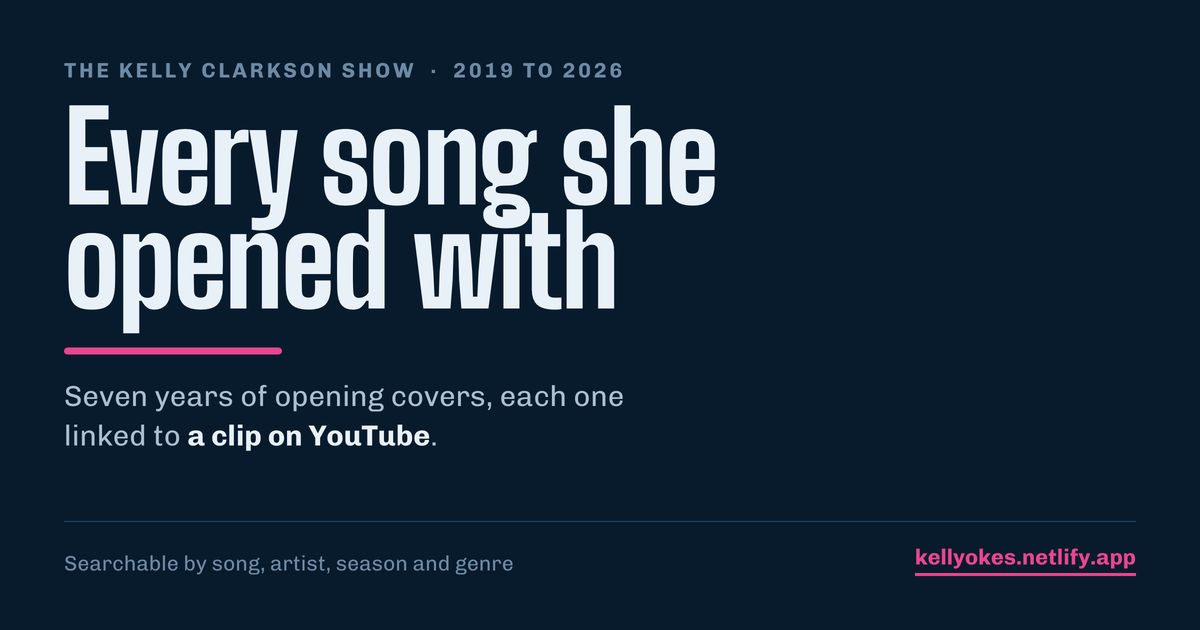
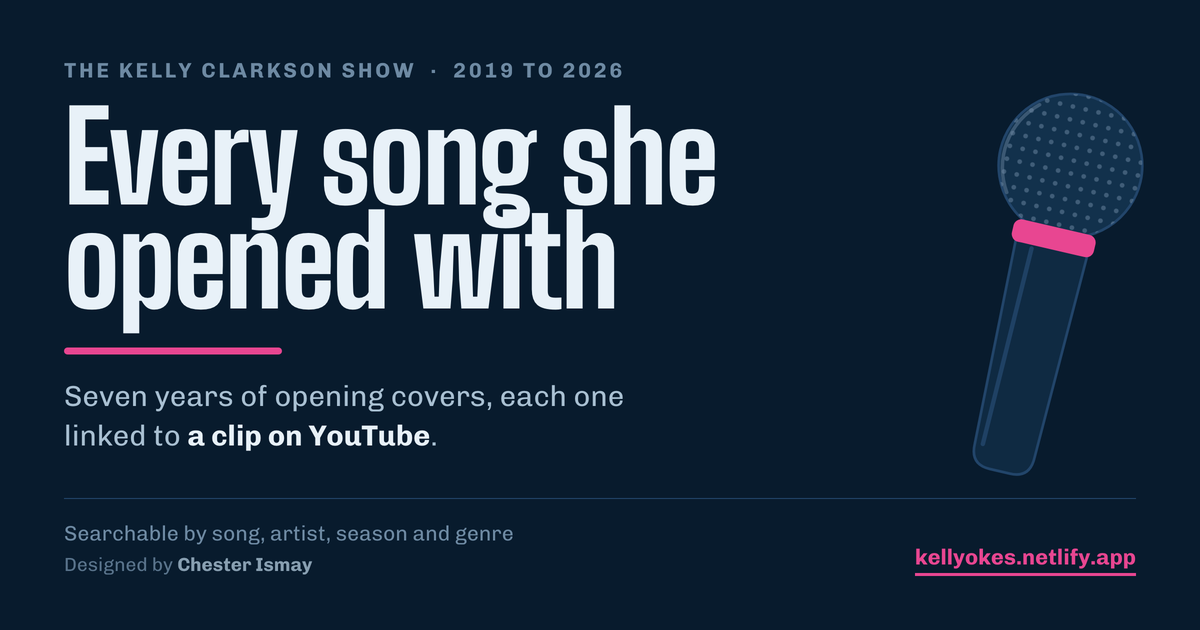
Put a microphone in the card's open right side, and a byline in the footer
The right third was dead space at share size. The mic is drawn as inline SVG in the same near-ground tones as the background so it reads as depth behind the type rather than as clip art, with the pink band as its one accent. This is a deliberate exception to the rule that the sung/unsung fill is the only ornament.

First position put the handle across the footer rule; it now sits clear of it.

Claude-Session: https://claude.ai/code/session_01GzwQPxunaZog6hKUnUkb4P

Changed region(s): [[0.8017, 0.1508, 0.9558, 0.754], [0.0308, 0.8143, 0.4317, 0.9048]]

diff --git a/tools/build_og.py b/tools/build_og.py
@@ -56,7 +56,16 @@ def html():
     padding: 58px 64px 54px; display: flex; flex-direction: column;
     justify-content: space-between; overflow: hidden;
     -webkit-font-smoothing: antialiased;
+    position: relative;
   }}
+  /* The type carries the card; the mic fills the right third and sits behind it,
+     drawn in the same near-ground tones so it reads as depth rather than
+     clip art. The one pink band ties it to the rest of the system. */
+  .mic {{
+    position: absolute; right: 74px; bottom: 122px; height: 438px; width: auto;
+    transform: rotate(13deg); transform-origin: 50% 62%;
+  }}
+  body > div, body > footer {{ position: relative; z-index: 1; }}
   .eyebrow {{
     font-size: 21px; font-weight: 700; letter-spacing: .13em;
     text-transform: uppercase; color: {t['unsung']};
@@ -80,11 +89,40 @@ def html():
     border-top: 1px solid {t['rule']}; padding-top: 22px; gap: 30px;
   }}
   .who {{ font-size: 21px; color: {t['unsung']}; }}
+  .by {{ font-size: 19px; color: {t['unsung']}; opacity: .8; margin-top: 7px; }}
+  .by b {{ color: {t['ink2']}; font-weight: 700; }}
   .site {{
     font-size: 22px; font-weight: 700; color: {t['sung']};
     border-bottom: 3px solid {t['sung']}; padding-bottom: 3px; white-space: nowrap;
   }}
 </style>
+<svg class="mic" viewBox="0 0 220 500" fill="none" aria-hidden="true">
+  <defs>
+    <pattern id="mesh" width="15" height="15" patternUnits="userSpaceOnUse">
+      <circle cx="7.5" cy="7.5" r="2.7" fill="{t['unsung']}" opacity=".5"></circle>
+    </pattern>
+    <clipPath id="ball"><circle cx="110" cy="104" r="82"></circle></clipPath>
+  </defs>
+
+  <!-- handle, tapering slightly toward a rounded base -->
+  <path d="M 68,192 L 152,192 L 145,438 Q 145,462 122,462 L 98,462 Q 75,462 75,438 Z"
+        fill="{t['panel']}" stroke="{t['rule']}" stroke-width="3"></path>
+  <!-- a single highlight so the handle reads as round, not flat -->
+  <path d="M 88,206 L 84,436" stroke="{t['rule']}" stroke-width="5"
+        stroke-linecap="round" opacity=".85"></path>
+
+  <!-- grille -->
+  <circle cx="110" cy="104" r="82" fill="#12314C" stroke="{t['rule']}" stroke-width="3"></circle>
+  <g clip-path="url(#ball)">
+    <rect x="0" y="0" width="220" height="220" fill="url(#mesh)"></rect>
+    <path d="M 46,150 A 82,82 0 0 1 60,44" stroke="{t['unsung']}" stroke-width="4"
+          stroke-linecap="round" opacity=".45"></path>
+  </g>
+
+  <!-- the band: the one place the card's pink appears twice -->
+  <rect x="62" y="176" width="96" height="26" rx="9" fill="{t['sung']}"></rect>
+</svg>
+
 <div>
   <p class="eyebrow">The Kelly Clarkson Show &nbsp;&middot;&nbsp; 2019 to 2026</p>
   <h1>Every song she<br>opened with</h1>
@@ -93,7 +131,10 @@ def html():
      <b>a clip on YouTube</b>.</p>
 </div>
 <footer>
-  <p class="who">Searchable by song, artist, season and genre</p>
+  <div>
+    <p class="who">Searchable by song, artist, season and genre</p>
+    <p class="by">Designed by <b>Chester Ismay</b></p>
+  </div>
   <div class="site">kellyokes.netlify.app</div>
 </footer>
 """
